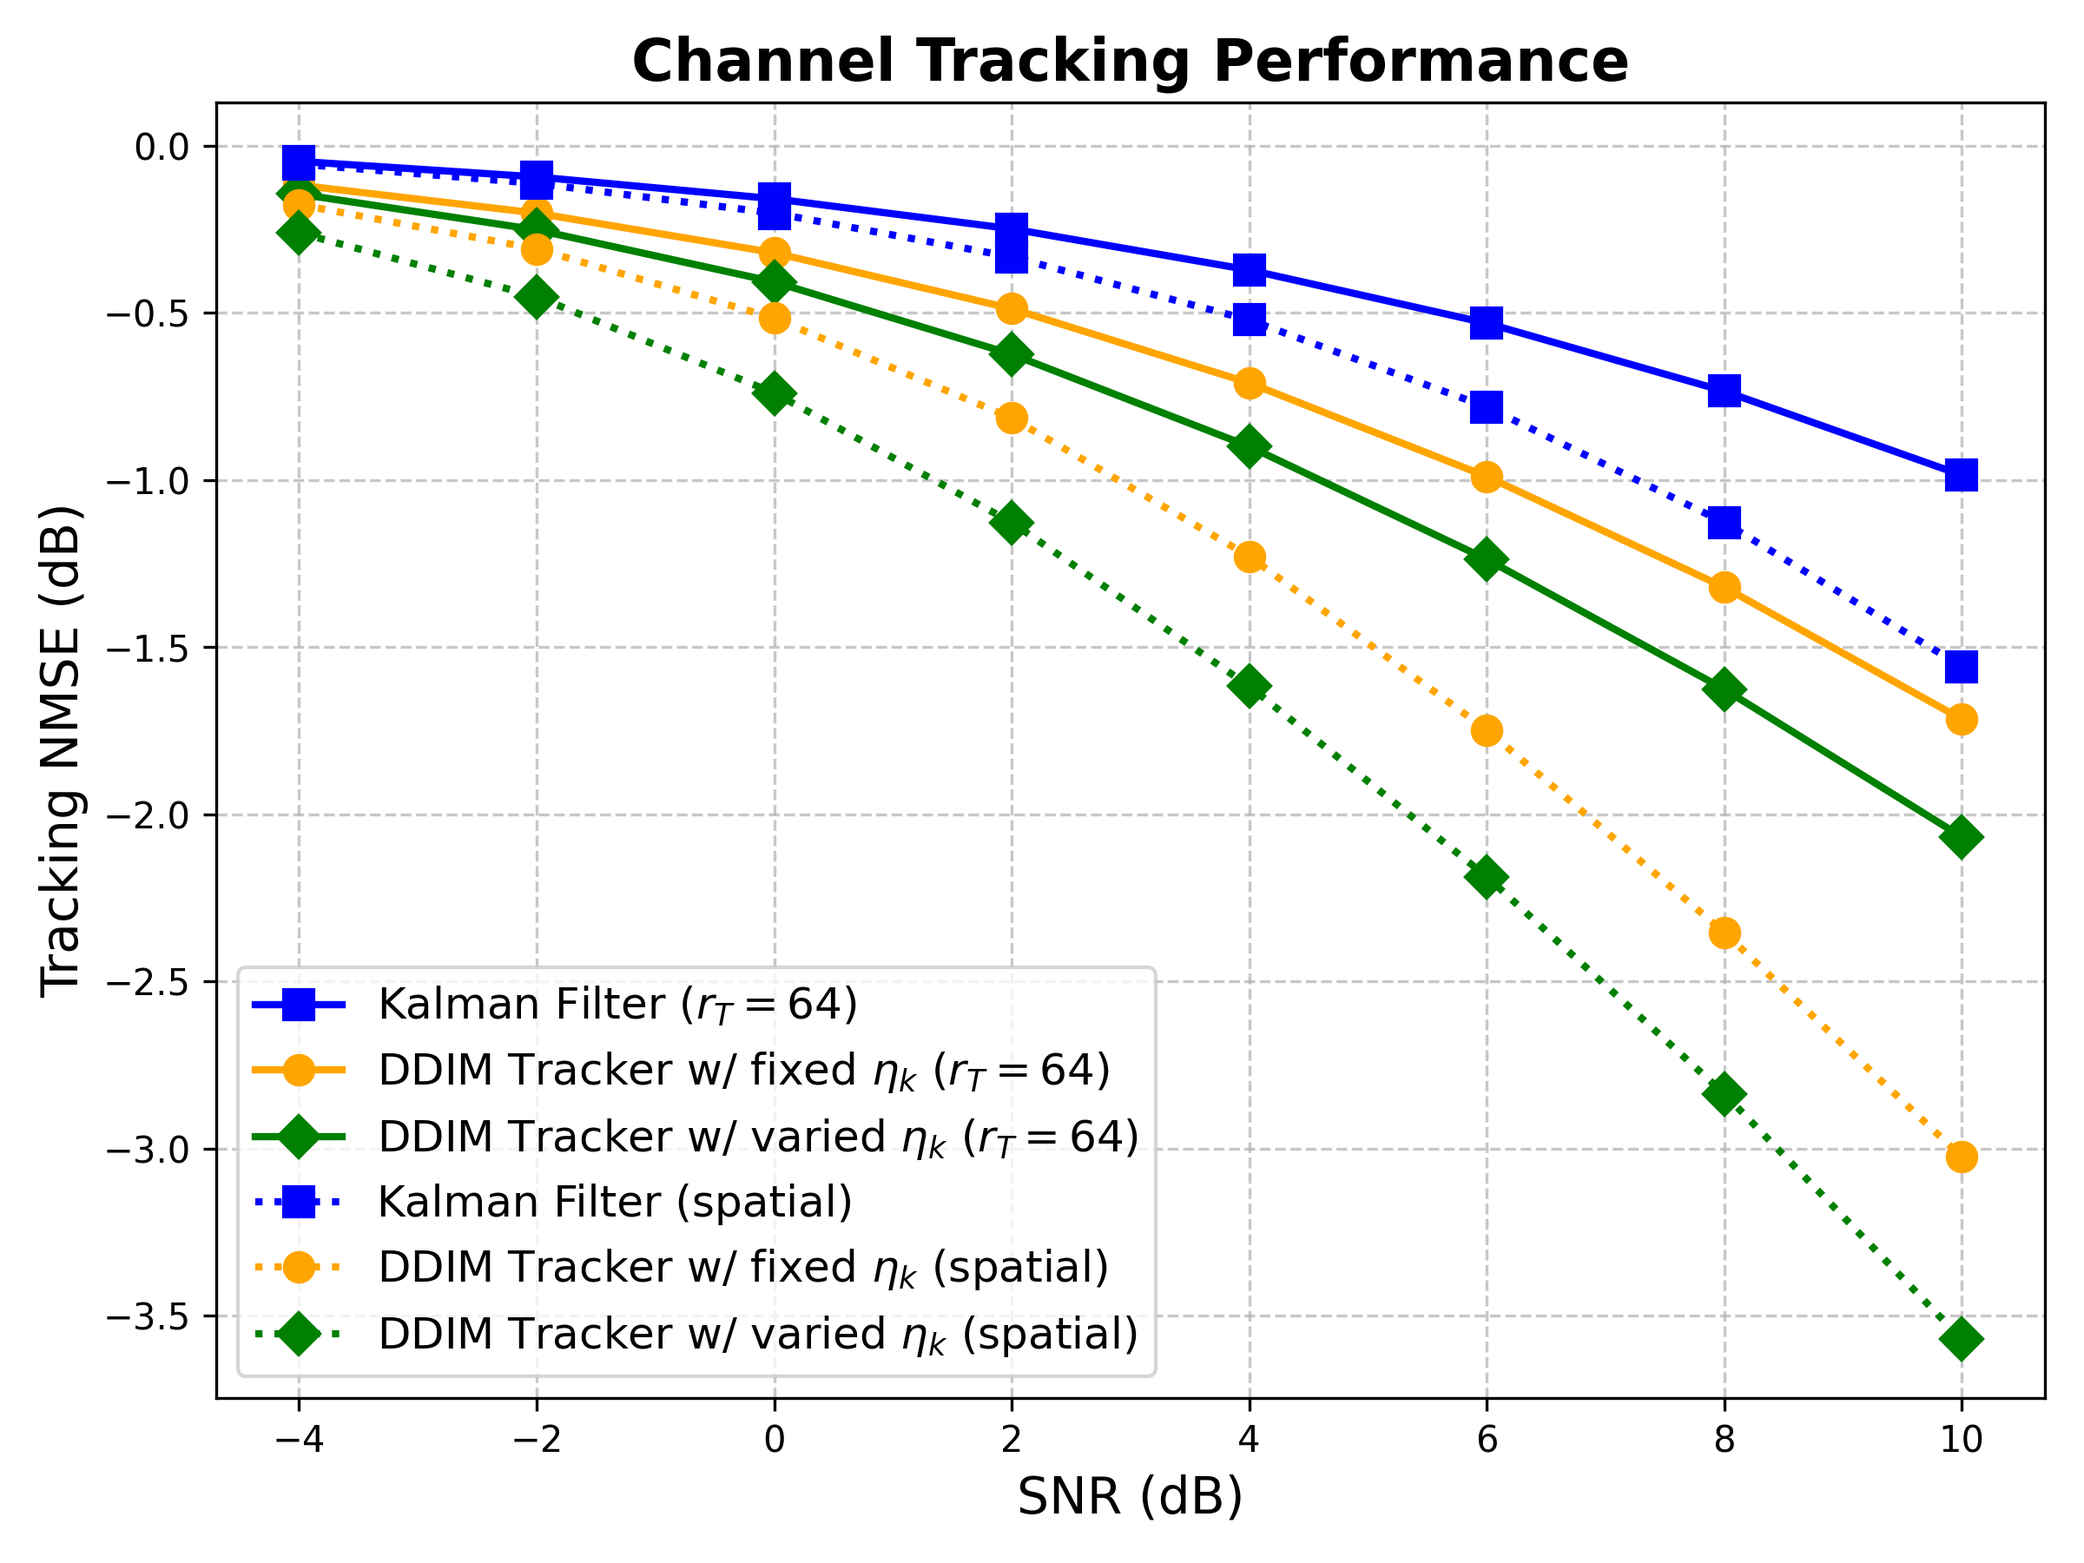
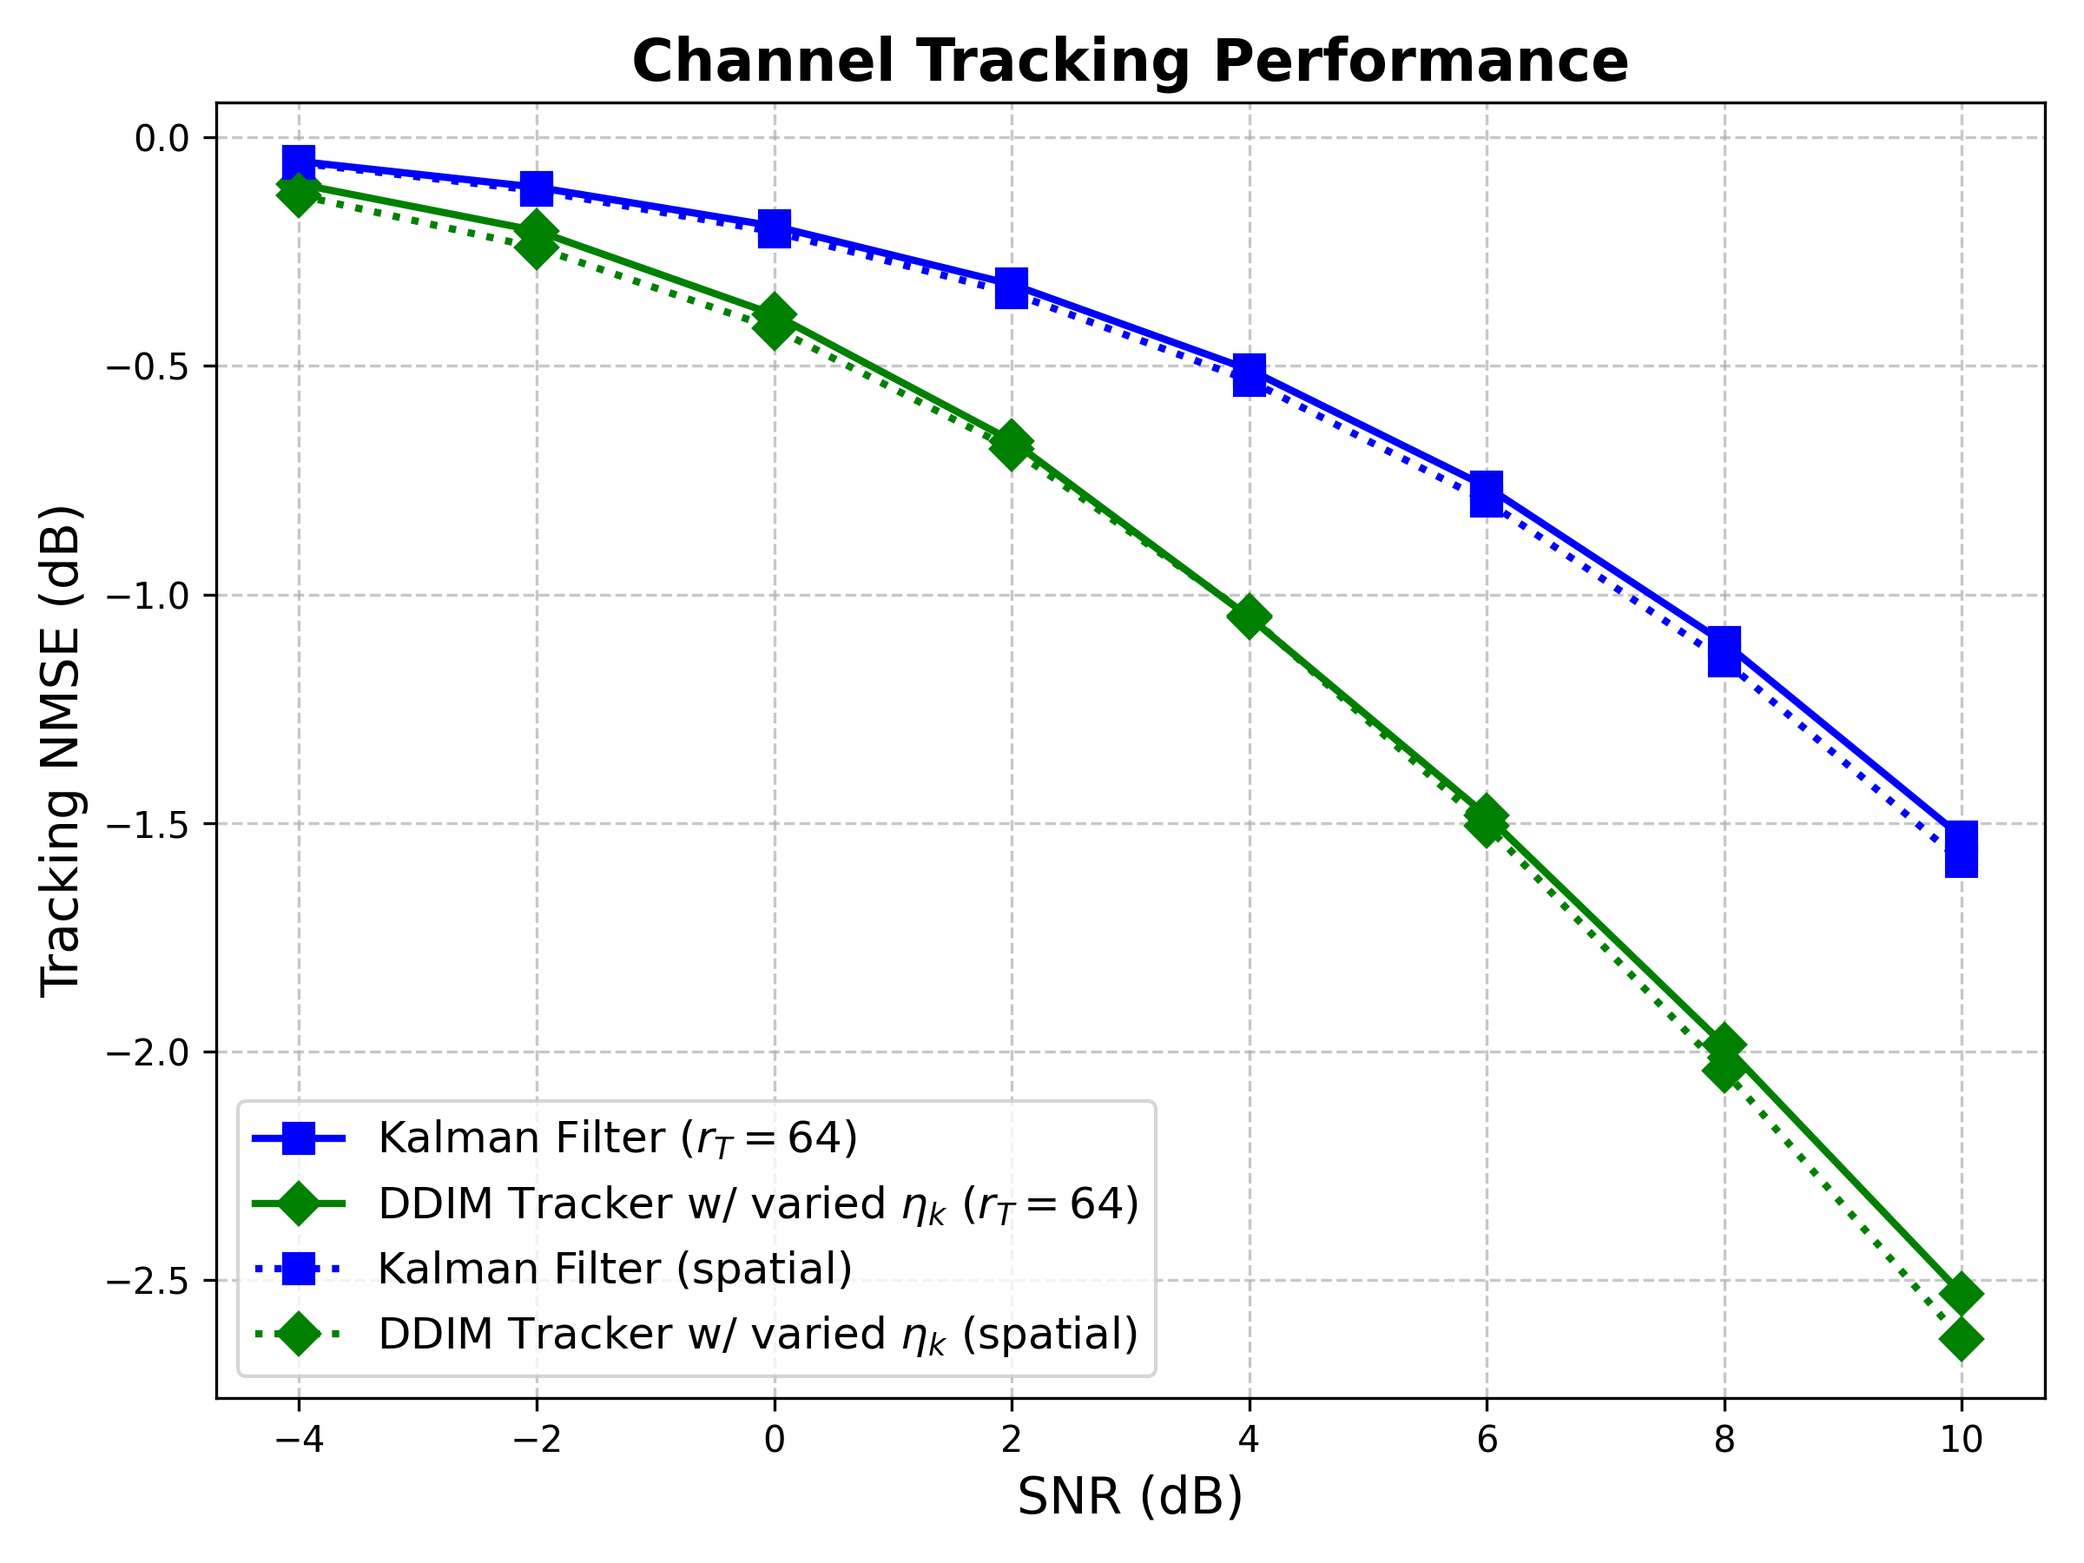
feat(tracking): refine spatial-domain evolution and measurement models
Combines original commits: fac5d2a e8a5d5c 0207608 fe0df32

diff --git a/small_scale_channel_tracking/data/generate_tracking_test_dataset_nondiag.py b/small_scale_channel_tracking/data/generate_tracking_test_dataset_nondiag.py
@@ -25,8 +25,8 @@ SNR_LEVELS = [-4, -2, 0, 2, 4, 6, 8, 10]
 # Tracking Physics Parameters
 RHO = 0.1034       # Base temporal correlation
 OFF_DIAG_STD = 0.2 # Standard deviation of the off-diagonal leakage
-NUM_PILOTS = 64*2   # T >= r_T
-MODE = 'spatial' # 'spatial' or 'modal'
+NUM_PILOTS = 64   # T >= r_T
+MODE = 'modal' # 'spatial' or 'modal'
 
 # Input Paths
 CHANNEL_FILE = os.path.join(SCRIPT_DIR, "channel", f"channel_data_SC_{FREQ_GHZ}GHz_{TX_DIM[0]}x{TX_DIM[1]}Tx_{RX_DIM[0]}x{RX_DIM[1]}Rx_{NUM_TEST_SAMPLES}samples.mat")
@@ -67,6 +67,7 @@ def main():
     # 3. Project to Modal Domain to get x_0(tau)
     print("Projecting test samples into modal domain x0(tau)...")
     H_c = np.matmul(H_samples, C_T_sqrt)
+    # x0_tau_np = np.squeeze(H_c)
     if MODE == 'spatial':
         x0_tau_np = np.squeeze(H_c) # Shape: (3000, NUM_PILOTS)
     elif MODE == 'modal':
@@ -81,10 +82,7 @@ def main():
     torch.manual_seed(0) # Fix seed for reproducibility across all methods
     
     # Create the non-diagonal transition matrix A
-    if MODE == 'spatial':
-        dim = TX_DIM[0] * TX_DIM[1]
-    elif MODE == 'modal':
-        dim = R_T
+    dim = TX_DIM[0] * TX_DIM[1]
     A = torch.eye(dim, dtype=torch.complex64) * RHO
     noise_real = torch.randn(dim, dim)
     noise_imag = torch.randn(dim, dim)
@@ -93,7 +91,7 @@ def main():
     mask = ~torch.eye(dim, dtype=torch.bool)
     A[mask] += OFF_DIAG_STD * N_off[mask]
     
-    # Spectral Stability Check
+    # Spectral Stability Check for \A
     eigenvalues = torch.linalg.eigvals(A)
     max_eig = torch.max(torch.abs(eigenvalues)).item()
     if max_eig >= 1.0:
@@ -102,26 +100,64 @@ def main():
     else:
         print(f"  Matrix A is stable. Spectral radius: {max_eig:.4f}")
 
-    # Calculate variance for process noise Q
-    x0_var = torch.var(x0_tau, dim=0) 
-    Q_std = torch.sqrt((1 - RHO**2) * x0_var)
+    # Always use spatial dimensions for evolution
+    N_T = TX_DIM[0] * TX_DIM[1] # 64
     
-    # Generate process noise w
-    w_real = torch.randn_like(x0_tau.real)
-    w_imag = torch.randn_like(x0_tau.imag)
-    w = (w_real + 1j * w_imag) / np.sqrt(2) * Q_std
+    # Calculate variance for spatial process noise Q
+    H_c_tensor = torch.squeeze(torch.tensor(H_c, dtype=torch.complex64))
+    spatial_var = torch.var(H_c_tensor, dim=0)  ################
+    # spatial_var = torch.ones(N_T)     
+    # Q_std_spatial = torch.sqrt((1 - RHO**2) * spatial_var)  
     
-    # State evolution (Using Matrix Multiplication for the non-diagonal A)
-    x0_tau_plus_1 = torch.matmul(x0_tau, A.t()) + w
+    # # Generate spatial process noise w
+    # w_real = torch.randn(NUM_TEST_SAMPLES, N_T)
+    # w_imag = torch.randn(NUM_TEST_SAMPLES, N_T)
+    # w_spatial = (w_real + 1j * w_imag) / np.sqrt(2) * Q_std_spatial
     
-    # 5. Generate Pilot Observations (QPSK)
+    # Evolve the spatial channel first
+    # No process noise added. The uncertainty is strictly the spatial leakage inside A.
+    Hc_tau_plus_1 = torch.matmul(H_c_tensor, A.t())
+    
+    if MODE == 'spatial':
+        x0_tau_plus_1 = torch.matmul(H_c_tensor, A.t())
+    elif MODE == 'modal':
+        # Project the evolved spatial channel to modal domain
+        U_T_tensor = torch.tensor(U_T_trunc, dtype=torch.complex64)
+        x0_tau_plus_1 = torch.matmul(torch.matmul(H_c_tensor, U_T_tensor), A.t())
+    # x0_tau_plus_1 = torch.matmul(x0_tau, A.t()) + w
+    
+# 5. Generate Pilot Observations (QPSK)
     print("Generating pilot measurements...")
+    
+    # 5a. Always generate the QPSK pilots in the tracker's native domain
+    if MODE == 'spatial':
+        dim = TX_DIM[0] * TX_DIM[1] # 64
+    elif MODE == 'modal':
+        dim = R_T # 38
+        
     M_real = (torch.randint(0, 2, size=(NUM_PILOTS, dim)).float() * 2 - 1) 
     M_imag = (torch.randint(0, 2, size=(NUM_PILOTS, dim)).float() * 2 - 1)
     M = (M_real + 1j * M_imag) / np.sqrt(2)
     
-    # Clean received signal: y_clean = x0_tau_plus_1 * M^T
-    y_clean = torch.matmul(x0_tau_plus_1, M.t()) # Shape: (3000, 38)
+    # if MODE == 'spatial':
+    #     # Standard spatial transmission
+    #     M_tracker = M_base 
+    #     y_clean = torch.matmul(x0_tau_plus_1, M_tracker.t())
+        
+    # elif MODE == 'modal':
+    #     # Math: M_spatial = M_modal * U_{T, r_T}^T
+    #     U_T_tensor = torch.tensor(U_T_trunc, dtype=torch.complex64)
+    #     M_spatial = torch.matmul(M_base, U_T_tensor.t()) # Shape: (NUM_PILOTS, 64)
+        
+    #     # Pass the physically precoded pilots through the TRUE SPATIAL channel (Hc_tau_plus_1)
+    #     # (3000, 64) @ (64, NUM_PILOTS) 
+    #     y_clean = torch.matmul(Hc_tau_plus_1, M_spatial.t()) 
+        
+    #     # The tracker only needs the modal pilots, it doesn't need to know about U_T
+    #     M_tracker = M_base
+    
+    y_clean = torch.matmul(x0_tau_plus_1, M.t())
+    
     sig_power = torch.mean(torch.abs(y_clean)**2)
     
     # 6. Generate Noisy Observations for each SNR
@@ -135,7 +171,7 @@ def main():
         
         y_obs = y_clean + noise
         observations[snr] = y_obs
-        print(f"  Generated SNR = {snr:2d} dB")
+        # print(f"  Generated SNR = {snr:2d} dB")
         
     # 7. Pack and Save Dataset
     dataset = {
@@ -145,7 +181,7 @@ def main():
             "num_pilots": NUM_PILOTS,
             "snr_levels": SNR_LEVELS,
             "num_samples": NUM_TEST_SAMPLES,
-            "process_noise_var": ((1 - RHO**2) * x0_var)
+            "process_noise_var": ((1 - RHO**2) * spatial_var)
         },
         "true_A_matrix": A,                 # Storing true A just for reference
         "x0_tau": x0_tau,                   # Previous state

diff --git a/small_scale_channel_tracking/test_baseline_kalman_filter.py b/small_scale_channel_tracking/test_baseline_kalman_filter.py
@@ -1,7 +1,7 @@
 import torch
 import numpy as np
 import os
-import scipy.io
+import scipy.io 
 
 # ==========================================
 # 1. Configuration
@@ -11,7 +11,7 @@ SNR_LEVELS = [-4, -2, 0, 2, 4, 6, 8, 10]
 RHO = 0.1034
 FREQ_GHZ = 12
 R_T = 64
-NUM_PILOTS = 64*2
+NUM_PILOTS = 64
 MODE = 'spatial' # 'spatial' or 'modal'
 
 SCRIPT_DIR = os.path.dirname(os.path.abspath(__file__))
@@ -31,6 +31,8 @@ elif MODE == 'modal':
     OUTPUT_FILE = os.path.join(OUTPUT_DIR, 
                                  f"NMSE_KF_rT{R_T}_T{NUM_PILOTS}_{FREQ_GHZ}GHz_rho{RHO:.3f}.mat")
 
+EIGEN_FILE_TX = os.path.join(SCRIPT_DIR, "data", "HFSS", "eigen_result", f"8x8_UPA_{FREQ_GHZ}GHz_eigen.mat")
+
 # ==========================================
 # 2. Kalman Filter Implementation
 # ==========================================
@@ -46,15 +48,26 @@ def run_kalman_filter_baseline():
     
     config = dataset["config"]
     rho = config["rho"]
-    Q_cov = torch.diag(config["process_noise_var"]).numpy()
     
     # Convert tensors to numpy for traditional KF math
     x0_tau = dataset["x0_tau"].numpy()
     x0_tau_plus_1 = dataset["x0_tau_plus_1"].numpy()
+    # U_T_trunc = dataset["U_T_trunc"].numpy() 
+    # U_pinv = np.linalg.pinv(U_T_trunc)
+    U_T_full = scipy.io.loadmat(EIGEN_FILE_TX)['U_T_sorted']
+    U_T_trunc = U_T_full[:, :R_T]
+    U_pinv = np.linalg.pinv(U_T_trunc)
     M = dataset["M"].numpy()
     y_observations = dataset["observations"]
     
     num_pilots = config["num_pilots"]
+    sigma2_w = np.mean(np.var(dataset["x0_tau"].numpy(), axis=0)) * (1 - rho**2) #########
+    # sigma2_w = (1 - rho**2)
+    # if MODE == 'modal':
+    #     Q_cov = sigma2_w * (U_T_trunc.conj().T @ U_T_trunc)   #(1 - rho**2)
+    # elif MODE == 'spatial':
+    #     Q_cov = sigma2_w * np.eye(U_T_trunc.shape[0])   #(1 - rho**2)
+    Q_cov = sigma2_w * np.eye(U_T_trunc.shape[0])   #(1 - rho**2)
     
     # Base signal power to calculate noise variance for R matrix
     y_clean = x0_tau_plus_1 @ M.T
@@ -88,13 +101,26 @@ def run_kalman_filter_baseline():
         # Updated state estimate: x_hat = x_pred + K * v
         x_hat = x_pred + (innovation @ K.T)
         
-        # 3. Evaluate NMSE
+        # if MODE == 'modal':
+        #     # Reconstruction formula: spatial = modal @ pinv
+        #     # (3000, 38) @ (38, 64) = (3000, 64)
+        #     x0_tau_plus_1_spatial = x0_tau_plus_1 @ U_pinv 
+        #     x_hat_spatial = x_hat @ U_pinv
+            
+        #     # Use these 64-dim spatial vectors for the NMSE
+        #     mse = np.mean(np.linalg.norm(x0_tau_plus_1_spatial - x_hat_spatial, axis=1)**2)
+        #     ref = np.mean(np.linalg.norm(x0_tau_plus_1_spatial, axis=1)**2)
+        # else:
+        #     # Standard spatial NMSE
+        #     mse = np.mean(np.linalg.norm(x0_tau_plus_1 - x_hat, axis=1)**2)
+        #     ref = np.mean(np.linalg.norm(x0_tau_plus_1, axis=1)**2)
         mse = np.mean(np.linalg.norm(x0_tau_plus_1 - x_hat, axis=1)**2)
         ref = np.mean(np.linalg.norm(x0_tau_plus_1, axis=1)**2)
+
         nmse_db = 10 * np.log10(mse / ref)
-        
         nmse_results.append(nmse_db)
         print(f"  SNR {snr:2d} dB | KF Tracking NMSE: {nmse_db:6.2f} dB")
+    print(f"--- KF Tracking Complete for {MODE} MODE, T={NUM_PILOTS}, rT={R_T} ---")
         
     # 4. Save Results
     os.makedirs(OUTPUT_DIR, exist_ok=True)

diff --git a/small_scale_channel_tracking/test_results/NMSE_plot_rT64_vs_spatial.py b/small_scale_channel_tracking/test_results/NMSE_plot_rT64_vs_spatial.py
@@ -16,10 +16,10 @@ FILES = {
     # r"DDIM Tracker w/ fixed $\eta_k$ ($r_T=38$)": f"NMSE_DDIM_rT38_T38_{FREQ_GHZ}GHz_rho{RHO:.3f}_fixed_eta.mat", 
     # r"DDIM Tracker w/ varied $\eta_k$ ($r_T=38$)": f"NMSE_DDIM_rT38_T38_{FREQ_GHZ}GHz_rho{RHO:.3f}.mat",
     f"Kalman Filter ($r_T=64$)": f"NMSE_KF_rT64_T64_{FREQ_GHZ}GHz_rho{RHO:.3f}.mat",
-    r"DDIM Tracker w/ fixed $\eta_k$ ($r_T=64$)": f"NMSE_DDIM_rT64_T64_{FREQ_GHZ}GHz_rho{RHO:.3f}_fixed_eta.mat", 
+    # r"DDIM Tracker w/ fixed $\eta_k$ ($r_T=64$)": f"NMSE_DDIM_rT64_T64_{FREQ_GHZ}GHz_rho{RHO:.3f}_fixed_eta.mat", 
     r"DDIM Tracker w/ varied $\eta_k$ ($r_T=64$)": f"NMSE_DDIM_rT64_T64_{FREQ_GHZ}GHz_rho{RHO:.3f}.mat",
     f"Kalman Filter (spatial)": f"NMSE_KF_spatial_T64_{FREQ_GHZ}GHz_rho{RHO:.3f}.mat",
-    r"DDIM Tracker w/ fixed $\eta_k$ (spatial)": f"NMSE_DDIM_spatial_T64_{FREQ_GHZ}GHz_rho{RHO:.3f}_fixed_eta.mat", 
+    # r"DDIM Tracker w/ fixed $\eta_k$ (spatial)": f"NMSE_DDIM_spatial_T64_{FREQ_GHZ}GHz_rho{RHO:.3f}_fixed_eta.mat", 
     r"DDIM Tracker w/ varied $\eta_k$ (spatial)": f"NMSE_DDIM_spatial_T64_{FREQ_GHZ}GHz_rho{RHO:.3f}.mat",
 }
 
@@ -31,13 +31,13 @@ STYLES = {
         'linewidth': 2, 
         'markersize': 8
     },
-    r"DDIM Tracker w/ fixed $\eta_k$ ($r_T=64$)": {
-        'color': 'orange', 
-        'marker': 'o', 
-        'linestyle': '-',  
-        'linewidth': 2, 
-        'markersize': 8
-    },
+    # r"DDIM Tracker w/ fixed $\eta_k$ ($r_T=64$)": {
+    #     'color': 'orange', 
+    #     'marker': 'o', 
+    #     'linestyle': '-',  
+    #     'linewidth': 2, 
+    #     'markersize': 8
+    # },
     r"DDIM Tracker w/ varied $\eta_k$ ($r_T=64$)": {
         'color': 'green', 
         'marker': 'D', 
@@ -73,13 +73,13 @@ STYLES = {
         'linewidth': 2, 
         'markersize': 8
     },
-    r"DDIM Tracker w/ fixed $\eta_k$ (spatial)": {
-        'color': 'orange', 
-        'marker': 'o', 
-        'linestyle': ':',  
-        'linewidth': 2, 
-        'markersize': 8
-    },
+    # r"DDIM Tracker w/ fixed $\eta_k$ (spatial)": {
+    #     'color': 'orange', 
+    #     'marker': 'o', 
+    #     'linestyle': ':',  
+    #     'linewidth': 2, 
+    #     'markersize': 8
+    # },
     r"DDIM Tracker w/ varied $\eta_k$ (spatial)": {
         'color': 'green', 
         'marker': 'D', 

diff --git a/small_scale_channel_tracking/main_DDIM_tracker.py b/small_scale_channel_tracking/main_DDIM_tracker.py
@@ -17,7 +17,7 @@ R_T = 64
 NUM_SAMPLES = 1000000
 CUDA = 0
 CHAN_MODE = 'spatial' # 'spatial' or 'modal'
-NUM_PILOTS = 64*5
+NUM_PILOTS = 64
 
 # Training settings
 NUM_EPOCHS = 10000
@@ -38,7 +38,9 @@ NUM_TEST_SAMPLES = 3000
 NUM_SAMPLING_STEPS = 1000
 K_START = 30
 DYNAMIC_ETA = True
-if DYNAMIC_ETA: GUIDANCE_LAMBDA = 50
+if DYNAMIC_ETA: 
+    if CHAN_MODE == 'spatial': GUIDANCE_LAMBDA = 40
+    elif CHAN_MODE == 'modal': GUIDANCE_LAMBDA = 110
 else: GUIDANCE_LAMBDA = 1.2
 # -----------------------------------
 if CHAN_MODE == 'spatial':
@@ -116,8 +118,10 @@ elif MODE == 'test':
     eps_net.load_state_dict(checkpoint['model_state_dict'])
     eps_net.eval()
     
-    data_mean = checkpoint['data_mean'].to(device)
+    data_mean = checkpoint['data_mean'].to(device)        ##################
     data_std = checkpoint['data_std'].to(device)
+    # data_mean = torch.zeros_like(checkpoint['data_mean']).to(device)
+    # data_std = torch.ones_like(checkpoint['data_std']).to(device)
     
     # 2. Load Testing Data
     # Ensure NUM_TEST_SAMPLES = 3000 at the top of your file
@@ -133,6 +137,7 @@ elif MODE == 'test':
     # Calculate base signal power (needed for SNR conversions inside sampler)
     y_clean = torch.matmul(x0_tau_plus_1, M_matrix.t())
     sig_power = torch.mean(torch.abs(y_clean)**2).item()
+    physical_mean_complex = torch.mean(x0_tau, dim=0)
     
     
     nmse_results = []
@@ -149,6 +154,7 @@ elif MODE == 'test':
             rho=rho,
             eps_net=eps_net, 
             data_mean=data_mean, 
+            physical_mean_complex = physical_mean_complex, 
             data_std=data_std, 
             snr_db=snr, 
             sig_power=sig_power,

diff --git a/small_scale_channel_tracking/diffusion/ddim_sampler_tracker.py b/small_scale_channel_tracking/diffusion/ddim_sampler_tracker.py
@@ -9,7 +9,7 @@ def real_to_complex_concat(x_real):
     return x_real[..., :dim] + 1j * x_real[..., dim:]
 
 def ddim_tracking_sampler(y_obs_complex, M_complex, x0_tau_complex, rho,
-                          eps_net, data_mean, data_std, snr_db, sig_power,
+                          eps_net, data_mean, physical_mean_complex, data_std, snr_db, sig_power,
                           num_steps=50, K_start=15, T_DIFFUSION=50.0,
                           beta_min=1e-4, beta_max=0.02, guidance_lambda=0.1, dynamic_eta=None,
                           device=None):
@@ -22,7 +22,8 @@ def ddim_tracking_sampler(y_obs_complex, M_complex, x0_tau_complex, rho,
     max_thred = 0.01
     
     # 1. Physical Prediction
-    x_pred_cplx = rho * x0_tau_complex
+    physical_mean_complex = 0
+    x_pred_cplx = rho * (x0_tau_complex - physical_mean_complex) + physical_mean_complex
     x_pred_real = complex_to_real_concat(x_pred_cplx)
     
     # Map to normalized latent space for the neural network
